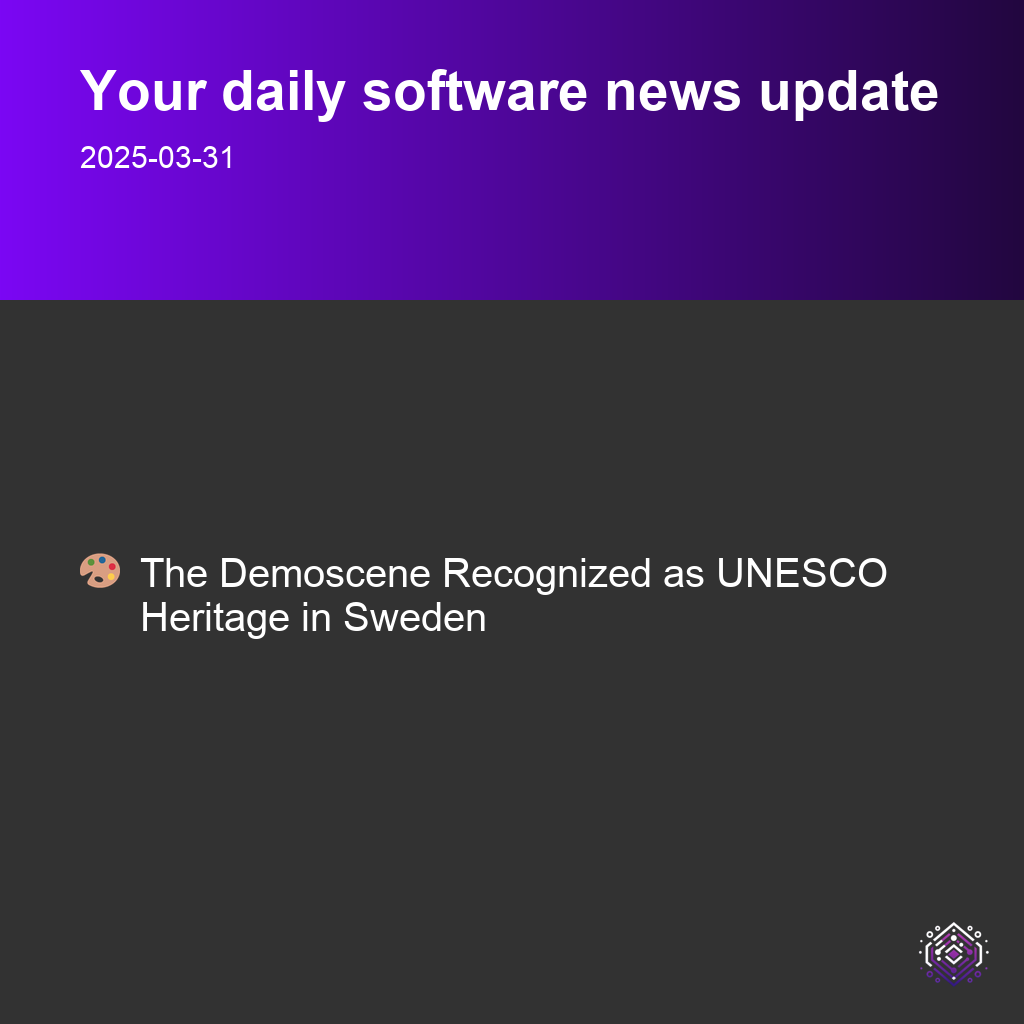
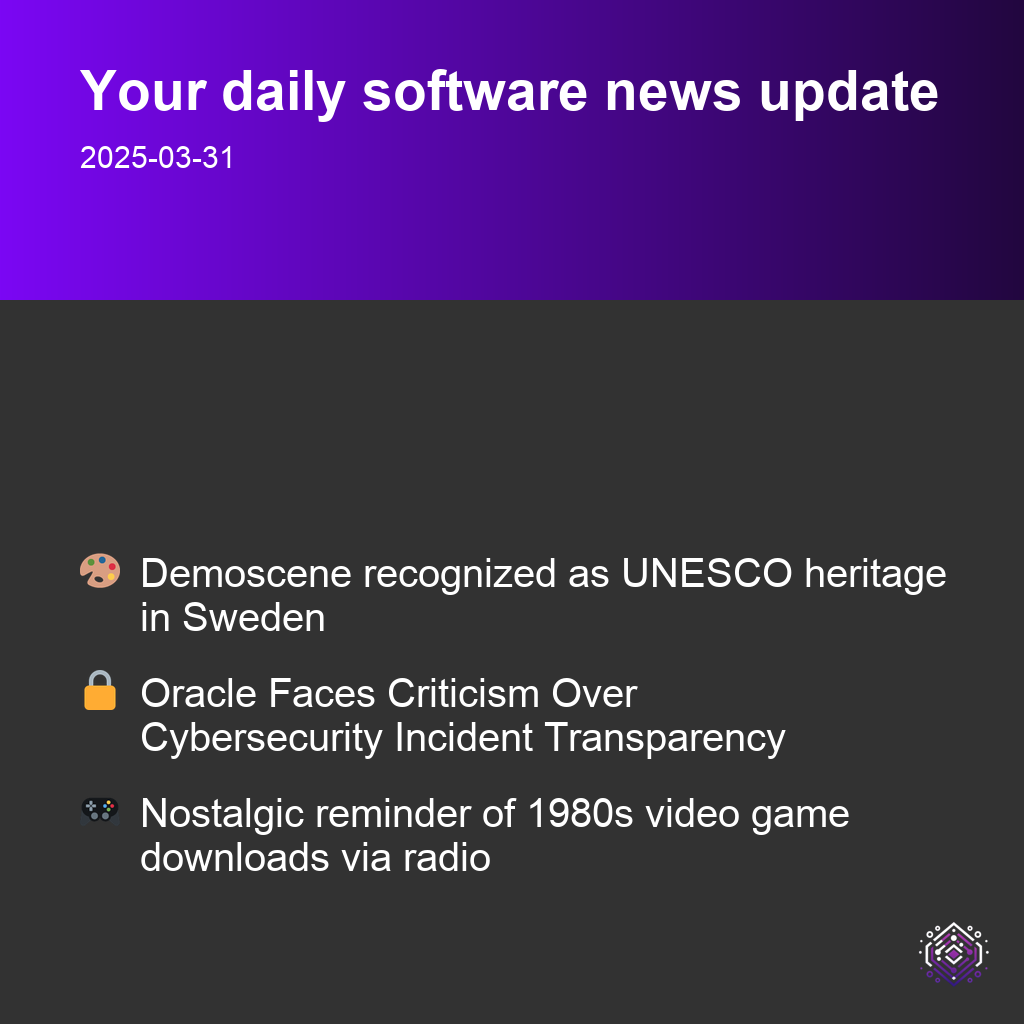
auto commit

diff --git a/src/buildPost/test_content_summarizer.py b/src/buildPost/test_content_summarizer.py
@@ -1,15 +1,16 @@
-from company_llm_summarizer import create_news_summary
+from company_llm_summarizer import create_news_topic
 import unittest
+
 
 class TestCreateNewsSummary(unittest.TestCase):
     def test_summarize_content(self):
         with open('src/buildPost/example_html_content.txt', 'r') as file:
             text = file.read()
-        
-        summary = create_news_summary(text)
+
+        summary = create_news_topic(text)
         print("Original Text Length:", len(text))
         print("Summary:", summary)
-        
+
         # Assertions
         self.assertIsNotNone(summary, "Summary should not be None for valid input")
         self.assertIsInstance(summary, dict, "Summary should be a dictionary")
@@ -22,30 +23,31 @@ class TestCreateNewsSummary(unittest.TestCase):
 
     def test_null_summary(self):
         nonsensical_text = "asdf qwer zxcv"
-        summary = create_news_summary(nonsensical_text)
+        summary = create_news_topic(nonsensical_text)
         print("Summary for nonsensical text:", summary)
-        
+
         # Assertions
         self.assertIsNone(summary, "Summary should be None for nonsensical input")
 
     def test_empty_input(self):
         empty_text = ""
-        summary = create_news_summary(empty_text)
+        summary = create_news_topic(empty_text)
         print("Summary for empty text:", summary)
-        
+
         # Assertions
         self.assertIsNone(summary, "Summary should be None for empty input")
 
     def test_partial_fields(self):
         partial_text = "This is a partial text that might not generate all fields."
-        summary = create_news_summary(partial_text)
+        summary = create_news_topic(partial_text)
         print("Summary for partial text:", summary)
-        
+
         # Assertions
         if summary is not None:
             self.assertIn("headline", summary, "Summary should contain a 'headline' if valid")
             self.assertIn("entry_sentence", summary, "Summary should contain an 'entry_sentence' if valid")
             self.assertIn("detail", summary, "Summary should contain a 'detail' if valid")
+
 
 if __name__ == "__main__":
     unittest.main()

diff --git a/src/buildPost/company_llm_summarizer.py b/src/buildPost/company_llm_summarizer.py
@@ -6,18 +6,27 @@ from dotenv import load_dotenv
 
 load_dotenv()
 
-def create_news_summaries(texts: list) -> list:
-    summaries = []
-    for text in texts:
-        summary = create_news_summary(text)
-        if summary is None:
-            logging.warning(f"AI Interaction: Failed to create summary for text: {text}")
-        else:
-            logging.info(f"AI Interaction: Created summary: {summary}")
-            summaries.append(summary)
-    return summaries
 
-def create_news_summary(text: str) -> str:
+def create_news_summaries(texts: list) -> list:
+    news_topics = []
+    number_of_summaries = 0
+    for text in texts:
+        if len(text) < 1000 or len(text) > 15000:
+            logging.warning(f"AI Interaction: Text length is not valid: {len(text)} characters")
+            continue
+        if number_of_summaries >= 3:
+            break
+        topic = create_news_topic(text)
+        if topic is None:
+            logging.warning(f"AI Interaction: Failed to create topic")
+        else:
+            logging.info(f"AI Interaction: Created topic: {topic}")
+            number_of_summaries += 1
+            news_topics.append(topic)
+    return news_topics
+
+
+def create_news_topic(text: str) -> str:
     logging.basicConfig(level=logging.INFO)
     logging.info("Fetch: Fetching API key and base URL from environment variables")
     api_key = os.getenv("OPENAI_API_KEY")
@@ -50,8 +59,11 @@ def create_news_summary(text: str) -> str:
         ]
     )
 
+
     try:
         json = response.choices[0].message.content.strip()
+        logging.info(f"AI Interaction: Received response from OpenAI API: {json}")
+
         if json == "null":
             return None
         json = json.replace("'", '"')
@@ -68,6 +80,3 @@ def create_news_summary(text: str) -> str:
     except Exception as e:
         logging.error(f"AI Interaction: Failed to parse JSON: {e}")
         return None
-
-
-

diff --git a/src/main.py b/src/main.py
@@ -16,11 +16,10 @@ class NewsPostOrchestrator:
         logging.basicConfig(level=logging.INFO)
         
         top_news = fetch_top_news()
-        contents = fetch_html_contents(top_news, 3)
+        contents = fetch_html_contents(top_news, 5)
         summaries = create_news_summaries(contents)
         choose_icons(summaries)
-        if os.path.exists(dir):
-            os.rmdir(dir)
+        
         os.makedirs(dir, exist_ok=True)
 
         create_news_post(summaries, top_news, dir)
@@ -30,10 +29,10 @@ class NewsPostOrchestrator:
         today_date_formatted = datetime.now().strftime("%Y-%m-%d")
         dir = f"posts/{today_date_formatted}"
 
-        #self.create_post_from_top_news(dir)
+        self.create_post_from_top_news(dir)
         asyncio.run(send_post_to_telegram(dir))
         
 if __name__ == "__main__":
     orchestrator = NewsPostOrchestrator()
     orchestrator.send_and_create_post()
-    
+
